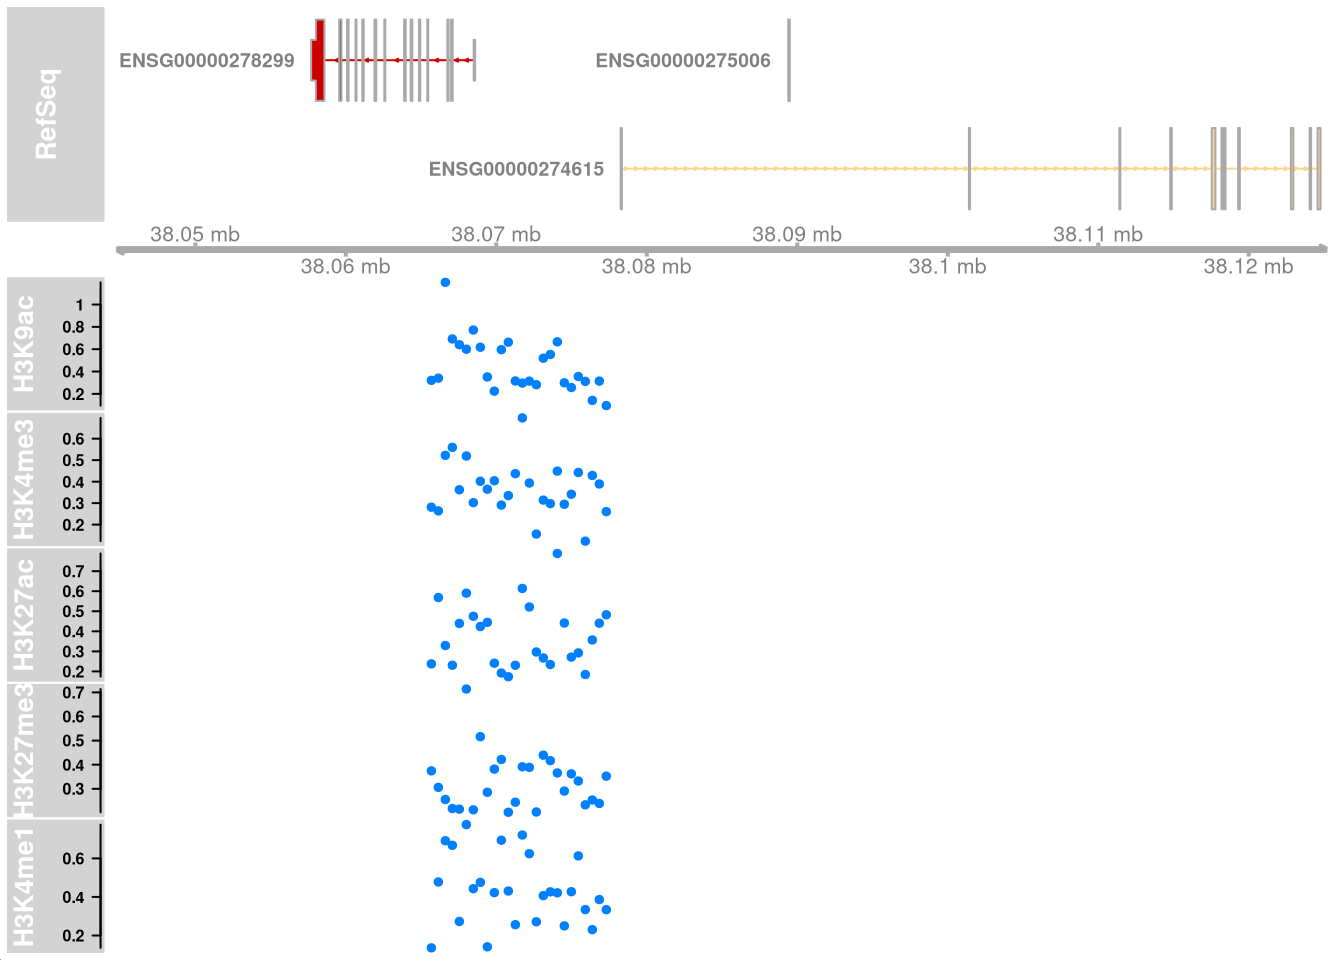
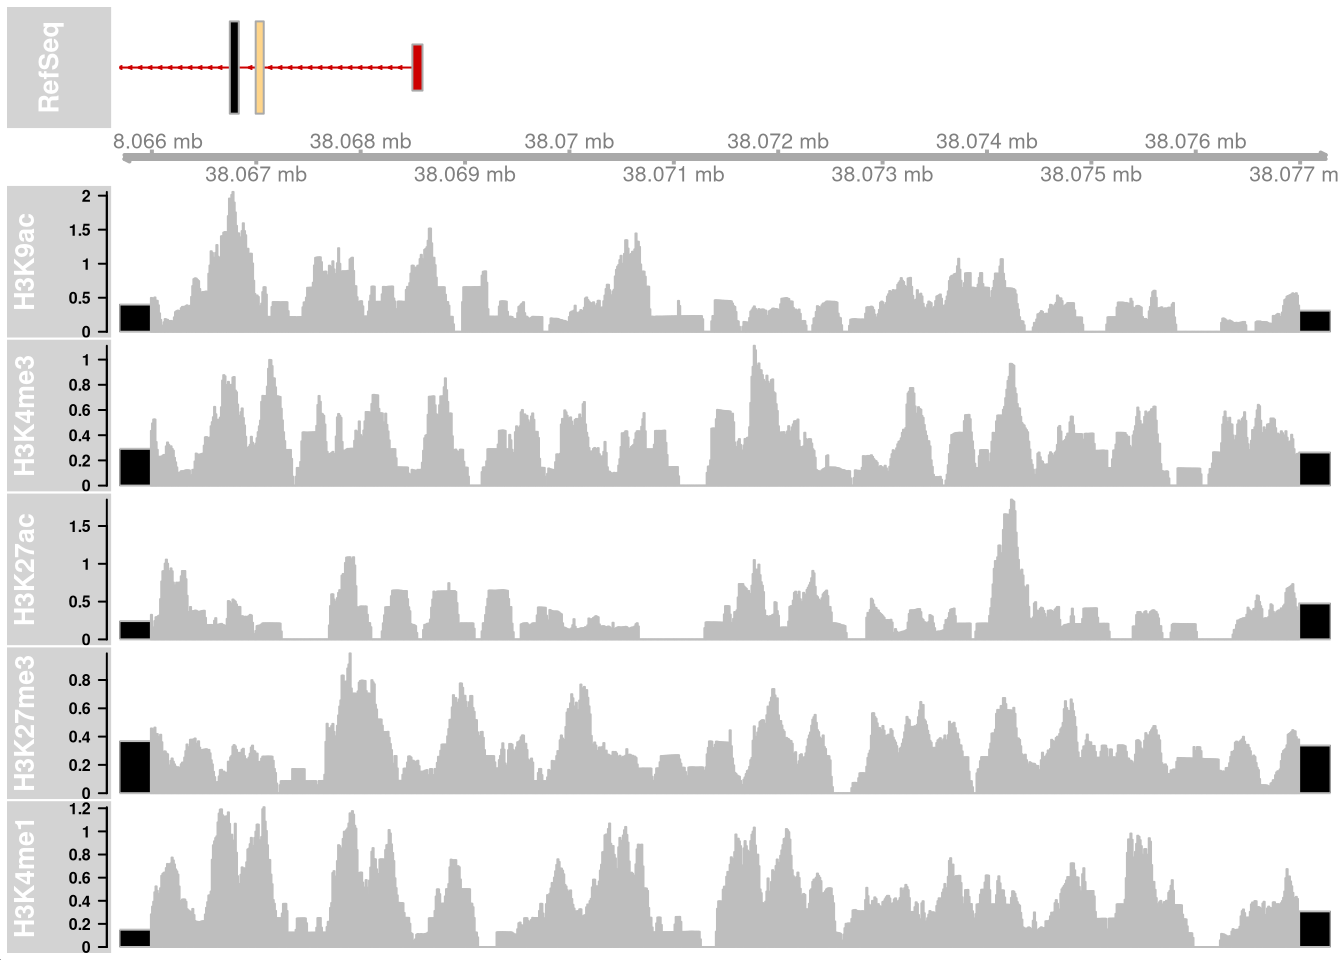
Build site.

Changed region(s): [[0.0, 0.0, 1.0, 1.0], [0.4375, 0.0312, 0.5938, 0.0938]]

diff --git a/docs/plot_data.html b/docs/plot_data.html
@@ -528,17 +528,23 @@ This reproducible <a href="http://rmarkdown.rstudio.com">R Markdown</a> analysis
 <div class="panel panel-default">
 <div class="panel-heading">
 <p class="panel-title">
-<a data-toggle="collapse" data-parent="#workflowr-checks" href="#strongRepositoryversionstrongahrefhttpsgithubcomCreRecombinasebedfiztree910e85ff13bc53052803be33dc78fa6abb0a2dc5targetblank910e85fa"> <span class="glyphicon glyphicon-ok text-success" aria-hidden="true"></span> <strong>Repository version:</strong> <a href="https://github.com/CreRecombinase/bed_fiz/tree/910e85ff13bc53052803be33dc78fa6abb0a2dc5" target="_blank">910e85f</a> </a>
+<a data-toggle="collapse" data-parent="#workflowr-checks" href="#strongRepositoryversionstrongahrefhttpsgithubcomCreRecombinasebedfiztreef8800990d5bc25b9952874b7296401268e27cfcbtargetblankf880099a"> <span class="glyphicon glyphicon-ok text-success" aria-hidden="true"></span> <strong>Repository version:</strong> <a href="https://github.com/CreRecombinase/bed_fiz/tree/f8800990d5bc25b9952874b7296401268e27cfcb" target="_blank">f880099</a> </a>
 </p>
 </div>
[2 lines of base64/hex data omitted]
 <div class="panel-body">
 <p>
 Great! You are using Git for version control. Tracking code development and connecting the code version to the results is critical for reproducibility. The version displayed above was the version of the Git repository at the time these results were generated. <br><br> Note that you need to be careful to ensure that all relevant files for the analysis have been committed to Git prior to generating the results (you can use <code>wflow_publish</code> or <code>wflow_git_commit</code>). workflowr only checks the R Markdown file, but you know if there are other scripts or data files that it depends on. Below is the status of the Git repository when the results were generated:
 </p>
 <pre><code>
 Ignored files:
+    Ignored:    .Rhistory
     Ignored:    .Rproj.user/
+    Ignored:    data/bigwig_files/
+
+Unstaged changes:
+    Modified:   analysis/file_dl.Rmd
+    Modified:   analysis/file_subset.Rmd
 
 </code></pre>
 <p>
@@ -577,6 +583,40 @@ Message
 </tr>
 </thead>
 <tbody>
+<tr>
+<td>
+Rmd
+</td>
+<td>
+<a href="https://github.com/CreRecombinase/bed_fiz/blob/f8800990d5bc25b9952874b7296401268e27cfcb/analysis/plot_data.Rmd" target="_blank">f880099</a>
+</td>
+<td>
+CreRecombinase
+</td>
+<td>
+2019-09-18
+</td>
+<td>
+wflow_publish(“analysis/plot_data.Rmd”)
+</td>
+</tr>
+<tr>
+<td>
+html
+</td>
+<td>
+<a href="https://rawcdn.githack.com/CreRecombinase/bed_fiz/277d1c552aabbe91784682aec463327d4e9ed49f/docs/plot_data.html" target="_blank">277d1c5</a>
+</td>
+<td>
+CreRecombinase
+</td>
+<td>
+2019-09-18
+</td>
+<td>
+Build site.
+</td>
+</tr>
 <tr>
 <td>
 html
@@ -637,6 +677,8 @@ Build site.
 </div>
 <div id="introduction" class="section level2">
 <h2>Introduction</h2>
+<p><a href="https://www.bioconductor.org/help/course-materials/2016/CSAMA/lab-5-chipseq/Epigenetics.html" class="uri">https://www.bioconductor.org/help/course-materials/2016/CSAMA/lab-5-chipseq/Epigenetics.html</a></p>
+<p><a href="https://bioconductor.org/packages/release/bioc/vignettes/Gviz/inst/doc/Gviz.html" class="uri">https://bioconductor.org/packages/release/bioc/vignettes/Gviz/inst/doc/Gviz.html</a></p>
 <pre class="r"><code>library(biomaRt)
 library(plyranges)</code></pre>
 <pre><code>Loading required package: BiocGenerics</code></pre>
@@ -690,36 +732,102 @@ cols(
   trimpath = col_character(),
   marker_name = col_character()
 )</code></pre>
-<pre class="r"><code>mart = useMart(biomart = &quot;ENSEMBL_MART_ENSEMBL&quot;,
+<pre class="r"><code>pos_start &lt;- 38065690
+pos_end &lt;-  38077293
+chr &lt;- 17
+# pos_start &lt;- 38065690
+# pos_end &lt;- 38077293
+region_df &lt;- tibble::tibble(seqnames=paste0(&quot;chr&quot;,chr),start=pos_start,width=(pos_end-pos_start+1)) %&gt;%
+    as_granges()
+mart = useMart(biomart = &quot;ENSEMBL_MART_ENSEMBL&quot;,
                dataset = &quot;hsapiens_gene_ensembl&quot;)
 fm &lt;-  Gviz:::.getBMFeatureMap()
 
 fm[&quot;symbol&quot;] = &quot;ensembl_gene_id&quot;
 input_track_list &lt;- list()
 input_track_list[[&quot;gene&quot;]] &lt;-  BiomartGeneRegionTrack(chromosome=&#39;chr17&#39;, genome=&quot;hg19&quot;, 
-                                                      start=38065690, end = 38077293, 
+                                                      start=pos_start, end = pos_end, 
                                                       biomart=mart,
                                                       size=4, name=&quot;RefSeq&quot;, utr5=&quot;red3&quot;, utr3=&quot;red3&quot;, 
                                                       protein_coding=&quot;black&quot;, col.line=NULL, cex=7,
                                                       collapseTranscripts=&quot;longest&quot;,
                                                       featureMap=fm)
-input_track_list[[&quot;axis&quot;]] &lt;- GenomeAxisTrack( )
+input_track_list[[&quot;axis&quot;]] &lt;- GenomeAxisTrack(range =  region_df)
 
-for(i in 1:nrow(all_experiment_df)){
+i &lt;- 1
   marker_name &lt;- all_experiment_df$marker_name[i]
   input_track_data &lt;- import(all_experiment_df$trimpath[i],format=&quot;bigWig&quot;)
   input_track_list[[marker_name]] = DataTrack(input_track_data, 
                                     strand=&quot;*&quot;,
                                     genome=&quot;hg19&quot;,
                                     col.histogram=&#39;gray&#39;,
+                                    type=&#39;histogram&#39;,
                                     fill.histogram=&#39;black&#39;,
                                     name=marker_name,
                                     col.axis=&quot;black&quot;)
-}
+  
+  i &lt;- 2
+  
+  marker_name &lt;- all_experiment_df$marker_name[i]
+  input_track_data &lt;- import(all_experiment_df$trimpath[i],format=&quot;bigWig&quot;)
+  input_track_list[[marker_name]] = DataTrack(input_track_data, 
+                                    strand=&quot;*&quot;,
+                                    genome=&quot;hg19&quot;,
+                                    col.histogram=&#39;gray&#39;,
+                                    type=&#39;histogram&#39;,
+                                    fill.histogram=&#39;black&#39;,
+                                    name=marker_name,
+                                    col.axis=&quot;black&quot;)
+  
+  i &lt;- 3
+  
+  
+    marker_name &lt;- all_experiment_df$marker_name[i]
+  input_track_data &lt;- import(all_experiment_df$trimpath[i],format=&quot;bigWig&quot;)
+  input_track_list[[marker_name]] = DataTrack(input_track_data, 
+                                    strand=&quot;*&quot;,
+                                    genome=&quot;hg19&quot;,
+                                    col.histogram=&#39;gray&#39;,
+                                    type=&#39;histogram&#39;,
+                                    fill.histogram=&#39;black&#39;,
+                                    name=marker_name,
+                                    col.axis=&quot;black&quot;)
+  
+  
+  i &lt;- 4
+    marker_name &lt;- all_experiment_df$marker_name[i]
+  input_track_data &lt;- import(all_experiment_df$trimpath[i],format=&quot;bigWig&quot;)
+  input_track_list[[marker_name]] = DataTrack(input_track_data, 
+                                    strand=&quot;*&quot;,
+                                    genome=&quot;hg19&quot;,
+                                    col.histogram=&#39;gray&#39;,
+                                    type=&#39;histogram&#39;,
+                                    fill.histogram=&#39;black&#39;,
+                                    name=marker_name,
+                                    col.axis=&quot;black&quot;)
+  
+  i &lt;- 5
+  
+  marker_name &lt;- all_experiment_df$marker_name[i]
+  input_track_data &lt;- import(all_experiment_df$trimpath[i],format=&quot;bigWig&quot;)
+  input_track_list[[marker_name]] = DataTrack(input_track_data, 
+                                    strand=&quot;*&quot;,
+                                    genome=&quot;hg19&quot;,
+                                    col.histogram=&#39;gray&#39;,
+                                    type=&#39;histogram&#39;,
+                                    fill.histogram=&#39;black&#39;,
+                                    name=marker_name,
+                                    col.axis=&quot;black&quot;)
+  
+
+  
+  
+  
+
 
 plotTracks(input_track_list,
            transcriptAnnotation=&quot;symbol&quot;, window=&quot;auto&quot;, 
-           cex.title=1, fontsize=10 )</code></pre>
+           cex.title=1, fontsize=10,from=pos_start,to=pos_end)</code></pre>
 <p><img src="figure/plot_data.Rmd/unnamed-chunk-1-1.png" width="672" style="display: block; margin: auto;" /></p>
 <p>
 <button type="button" class="btn btn-default btn-xs btn-workflowr btn-workflowr-fig" data-toggle="collapse" data-target="#fig-unnamed-chunk-1-1">
